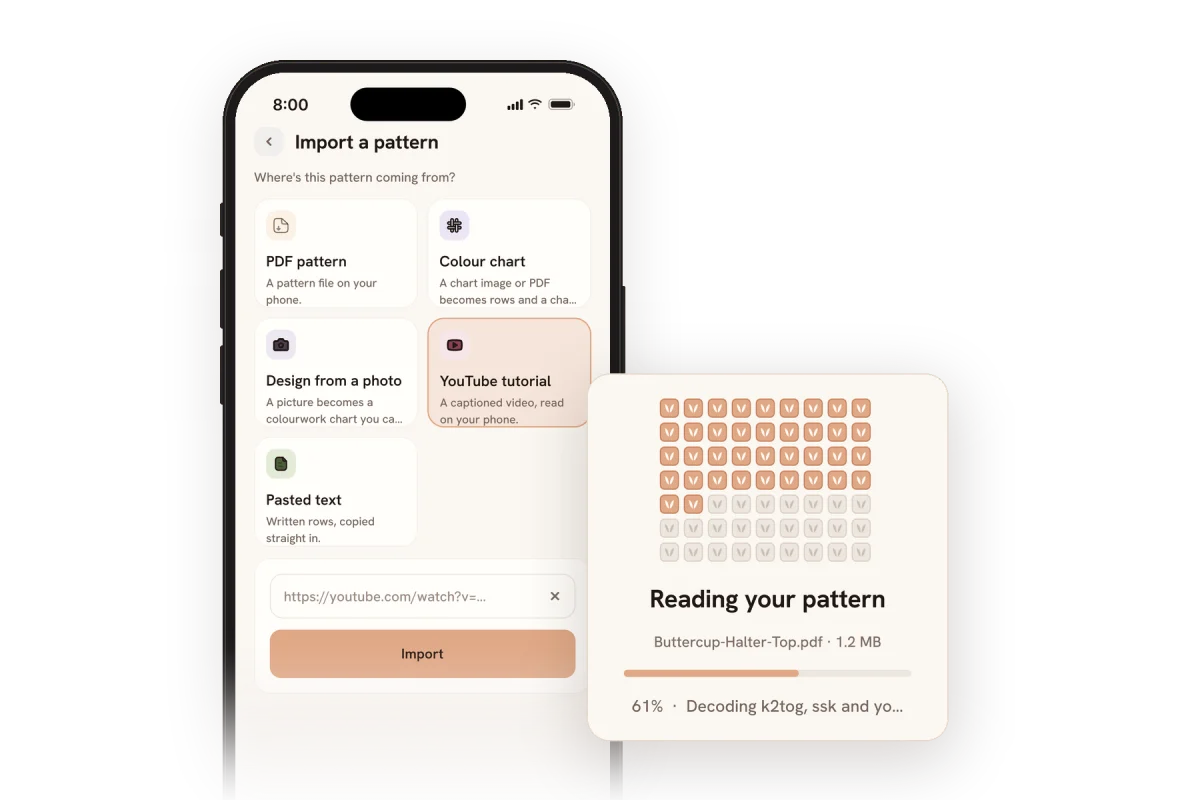
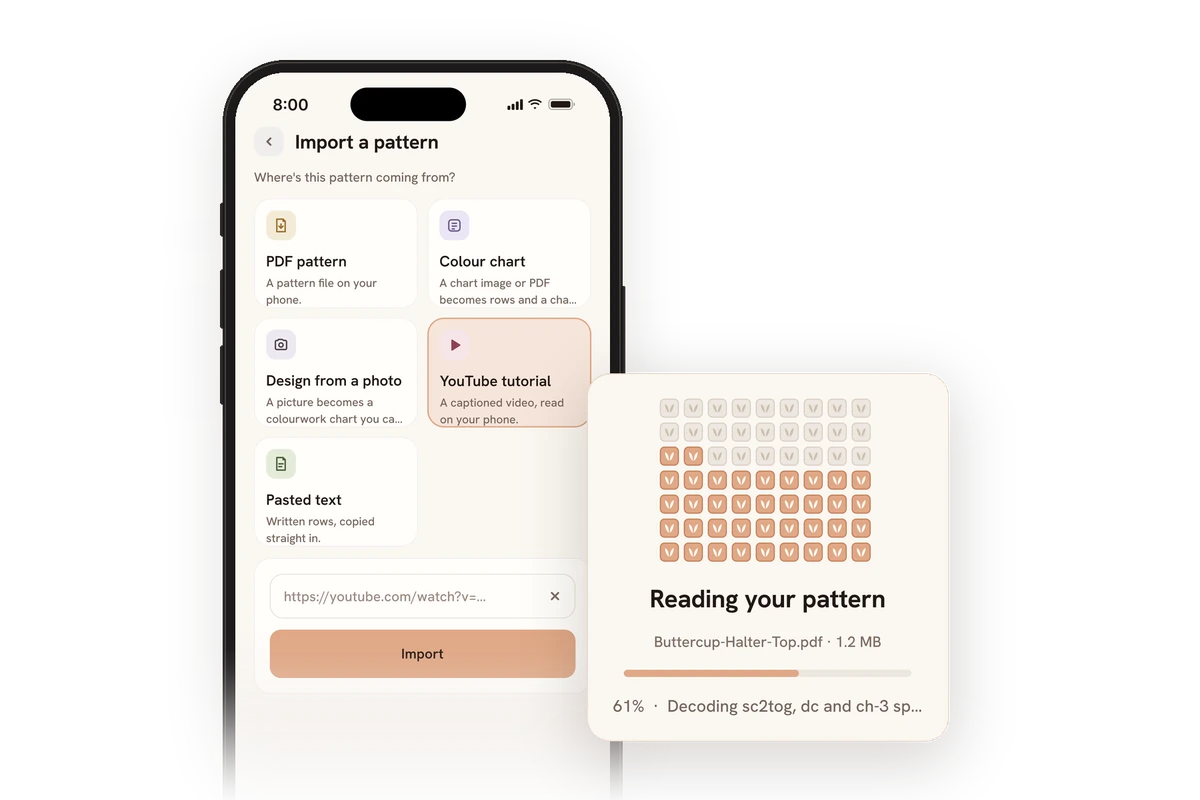
fix(site): refresh feature images from latest Figma screens
- Stitch grid fills bottom-up; counter cropped above the tool dock
- Real app icons, segmented tab padding, yarn totals match ball band
- Craft Assistant card copy now names sc2tog, matching its image
- Carry the Pinterest domain verify tag so the next release keeps it

Claude-Session: https://claude.ai/code/session_01HxqpUvQgtGvXm5QvFjmKWj

diff --git a/src/data.ts b/src/data.ts
@@ -63,7 +63,7 @@ export const features: Feature[] = [
   {
     title: "Craft Assistant",
     description:
-      "Not sure what \u201cinv dec\u201d means? Press and hold any stitch for a plain explanation and a tutorial, without losing your place.",
+      "Not sure what \u201csc2tog\u201d means? Press and hold any stitch for a plain explanation and a tutorial, without losing your place.",
     image: featureAssistant,
     frameMobile: "1200 / 800",
     alt: "Pressing a stitch abbreviation mid-row to see what it means",

diff --git a/index.html b/index.html
@@ -13,6 +13,7 @@
     />
     <meta name="theme-color" content="#8571b0" />
     <link rel="canonical" href="https://skeined.com/" />
+    <meta name="p:domain_verify" content="5c85bc004d7d3b8547b5dbd28cfed6ea" />
 
     <!-- Open Graph -->
     <meta property="og:type" content="website" />
